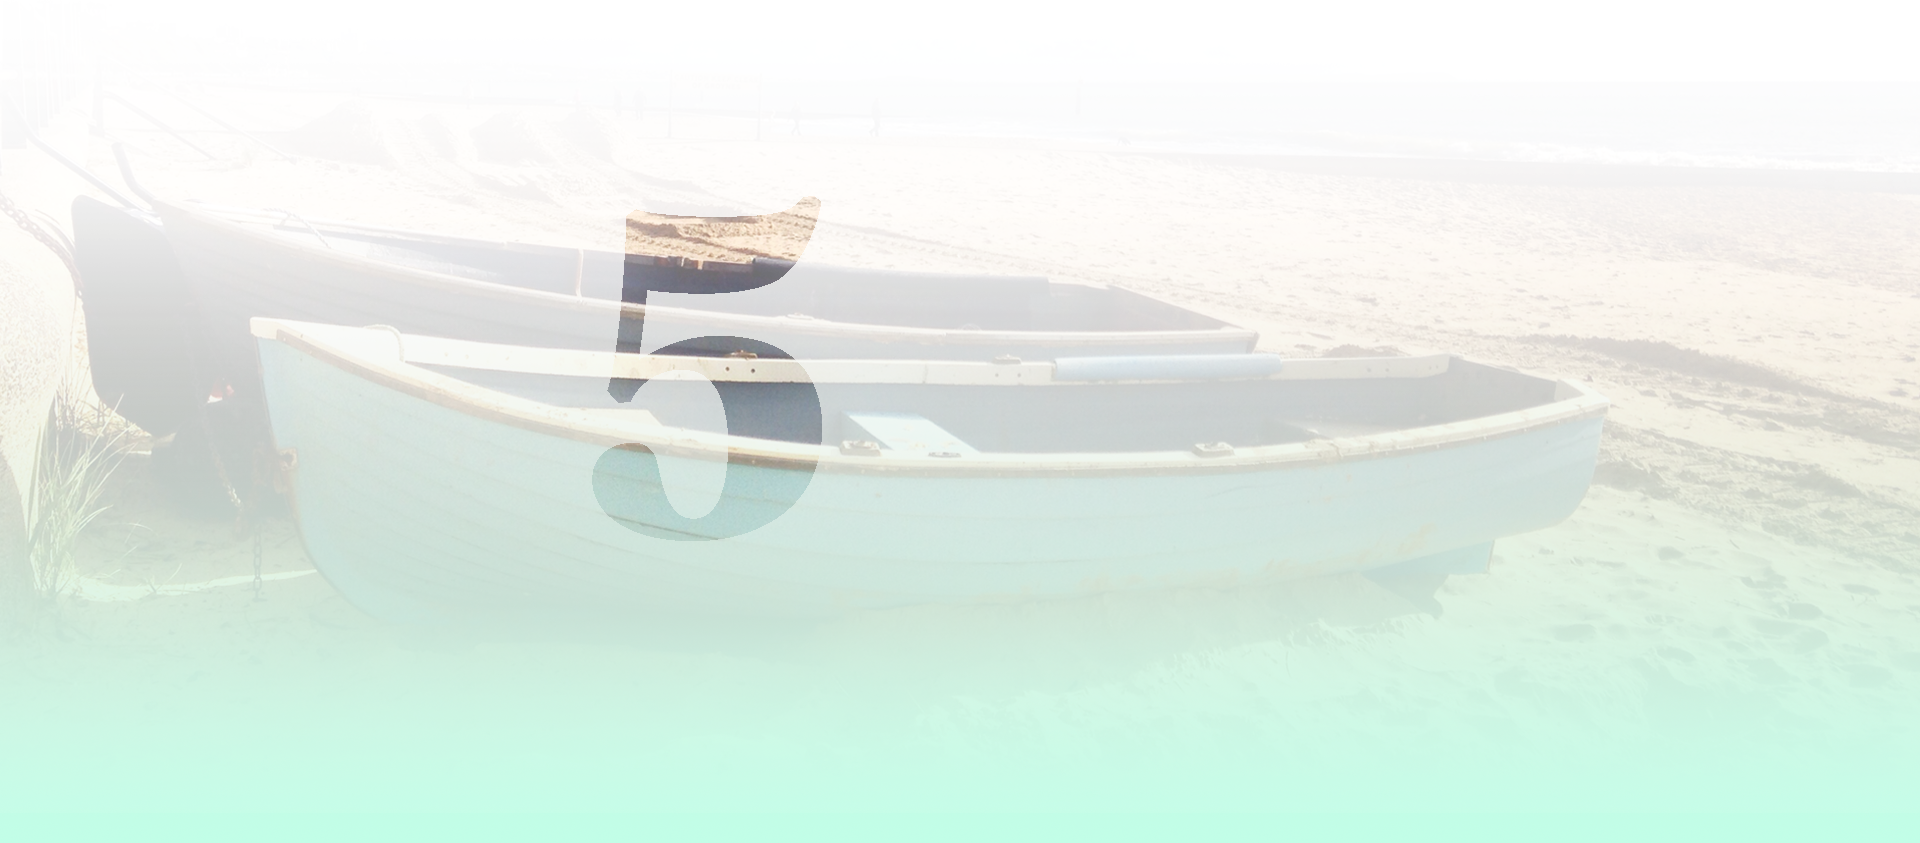
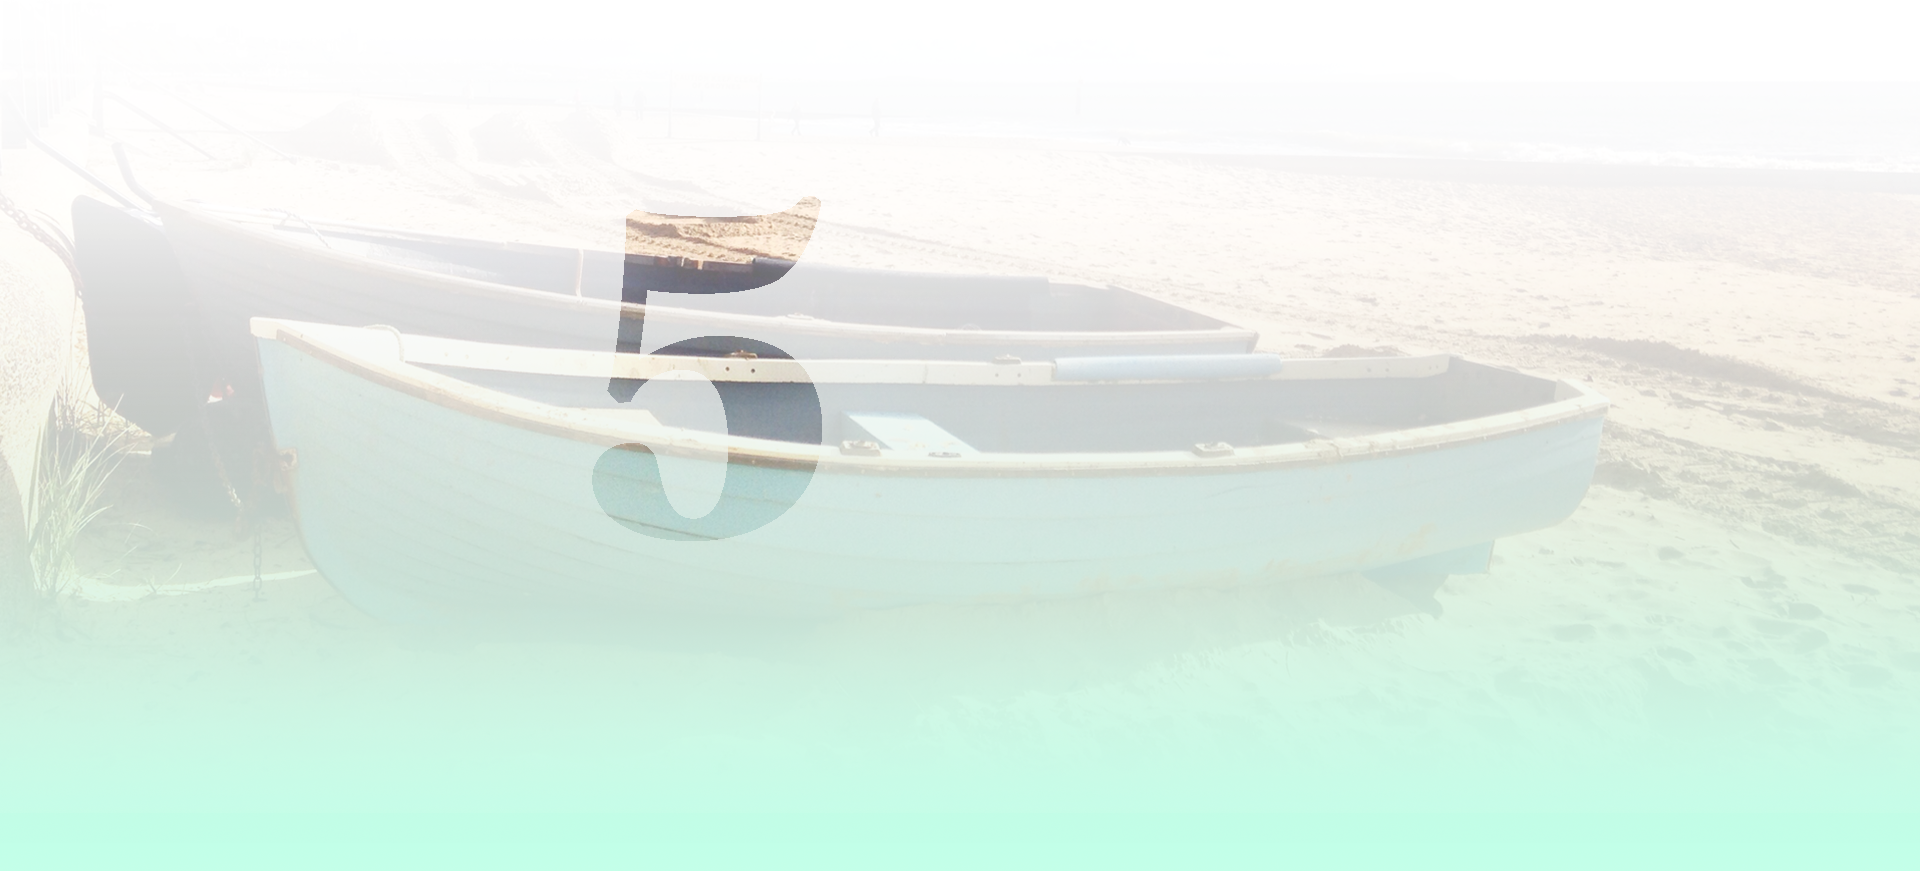
1

diff --git a/css/custom-style.css b/css/custom-style.css
@@ -2,6 +2,9 @@
 @import url('http://fonts.googleapis.com/css?family=Montserrat|Bitter');
 font: normal 14px/28px Montserrat; color: hsl(180, 40%, 40%); */
 @import url(https://fonts.googleapis.com/css?family=Open+Sans);
+@import url(https://fonts.googleapis.com/css?family=Abril+Fatface);
+@import url(https://fonts.googleapis.com/css?family=Abril+Fatface|Lora);
+
 html,body {
 	height: 100%;
 	min-width: 320px;
@@ -132,9 +135,8 @@ h1 {
 	margin-bottom: 20%;
 }
 .five-reasons {
-  background: url('../imgs/Boat.jpg') center center no-repeat;
+  background: url('../imgs/Boat2.png') center center no-repeat;
   background-size: cover;
-  height: 800px;
   position: relative;
   font-family: Palatino, 'Palatino Linotype', 'Palatino LT STD', 'Book Antiqua', Georgia, serif;
   height: 100vh;
@@ -142,20 +144,104 @@ h1 {
 .reasons {
 	position: absolute;
 	font-size: 2em;
-	top: 42%;
-	left: 42%;
+	top: 32%;
+	left: 46%;
 	letter-spacing: -2px;
 	color: #B1AFA5;
 }
 .awesome {
 	position: absolute;
 	font-size: 5em;
-	top: 44%;
-	left: 44%;
+	top: 34%;
+	left: 48%;
 	font-weight: bold;
 	color: #60898F;
 	letter-spacing: -4px;
 }
+
+
+
+
+
+
+
+
+
+
+
+
+/* Location Area */
+.location {
+	background: #C2FFE8;
+	background-size: contain;
+	height: 100vh;
+	position: relative;
+}
+.loc-topline {
+	position: absolute;
+	top: -150px;
+	left: 0;
+	background: url('../imgs/loc-topline.jpg')  center center no-repeat;
+	background-size: contain;
+	height: 150px;
+	width: 100%;
+}
+.loc-row {
+	width: 80%;
+	margin: auto;
+}
+.loc-heading-container {
+	position: relative;
+	text-align: center;
+	height: 250px;
+	width: 250px;
+}
+.loc-box1 {
+	position: absolute;
+	width: 100%;
+	height: 100%;
+	border: 2px solid #000;
+	top: -10px;
+	left: -10px;
+}
+.loc-box2 {
+	position: absolute;
+	width: 100%;
+	height: 100%;
+	border: 2px solid #000;
+	top: 10px;
+	left: 10px;
+}
+.loc-text-one {
+	padding-top: 45px;
+	font-size: 5em;
+	font-family: "Abril Fatface";
+}
+.loc-text-location {
+	font-size: 1.8em;
+	font-family: 'Lora', serif;
+}
+.loc-desc {
+	width: 50%;
+	position: absolute;
+}
+/* End Location Area */
+
+
+
+
+
+
+
+
+
+
+
+
+
+
+
+
 /*Club */
 .clubImg {
 	background: url('../imgs/club.jpg') no-repeat center center;
@@ -319,11 +405,6 @@ h1 {
 	background-size: contain;
 	height: 150px;
 	width: 100%;
-}
-#blueLine{
-	position: relative;
-    left: 50%;
-	height:150px;
 }
 .jobTitle{
    font-family: "Palatino Linotype", "Book Antiqua", Palatino, serif;

diff --git a/index.html b/index.html
@@ -60,12 +60,30 @@
         </div>
       </div>
     </div>
+
     <div class="container-fluid five-reasons">
       <div class="five">5</div>
       <div class="reasons">Reasons why Bournemouth is</div>
-      <div class="awesome">AWESOME TRUST ME</div>
+      <div class="awesome">AWESOME</div>
     </div>
     
+    <div class="container-fluid location">
+      <div class="row loc-row">
+        <div class="loc-topline"></div>
+        <div class="row">
+          <div class="loc-heading-container">
+            <p class="loc-text-one">1</p>
+            <p class="loc-text-location">Location</p>
+            <div class="loc-box1"></div>
+            <div class="loc-box2"></div>
+          </div>
+        </div>
+        <div class="loc-desc">
+          <p>Lorem ipsum dolor sit amet, consectetur adipiscing elit. Proin non aliquam neque, nec tincidunt purus. Vivamus libero tellus, scelerisque et sem ut, pretium mattis elit. Duis scelerisque, diam vel fermentum commodo, elit augue malesuada nisi, nec scelerisque nulla enim non arcu. Donec fermentum, nulla quis sodales lobortis, justo eros dignissim arcu, sit amet accumsan enim libero sit amet justo.<p>
+          <p>Pellentesque in vestibulum magna. Sed ante dolor, porta et bibendum quis, pharetra sed urna. Duis libero risus, facilisis in iaculis quis, tempus vel augue.</p>
+        </div>
+      </div>
+    </div>
 
         <!-- v Jack here v -->  
 	<div class="clubImg">
